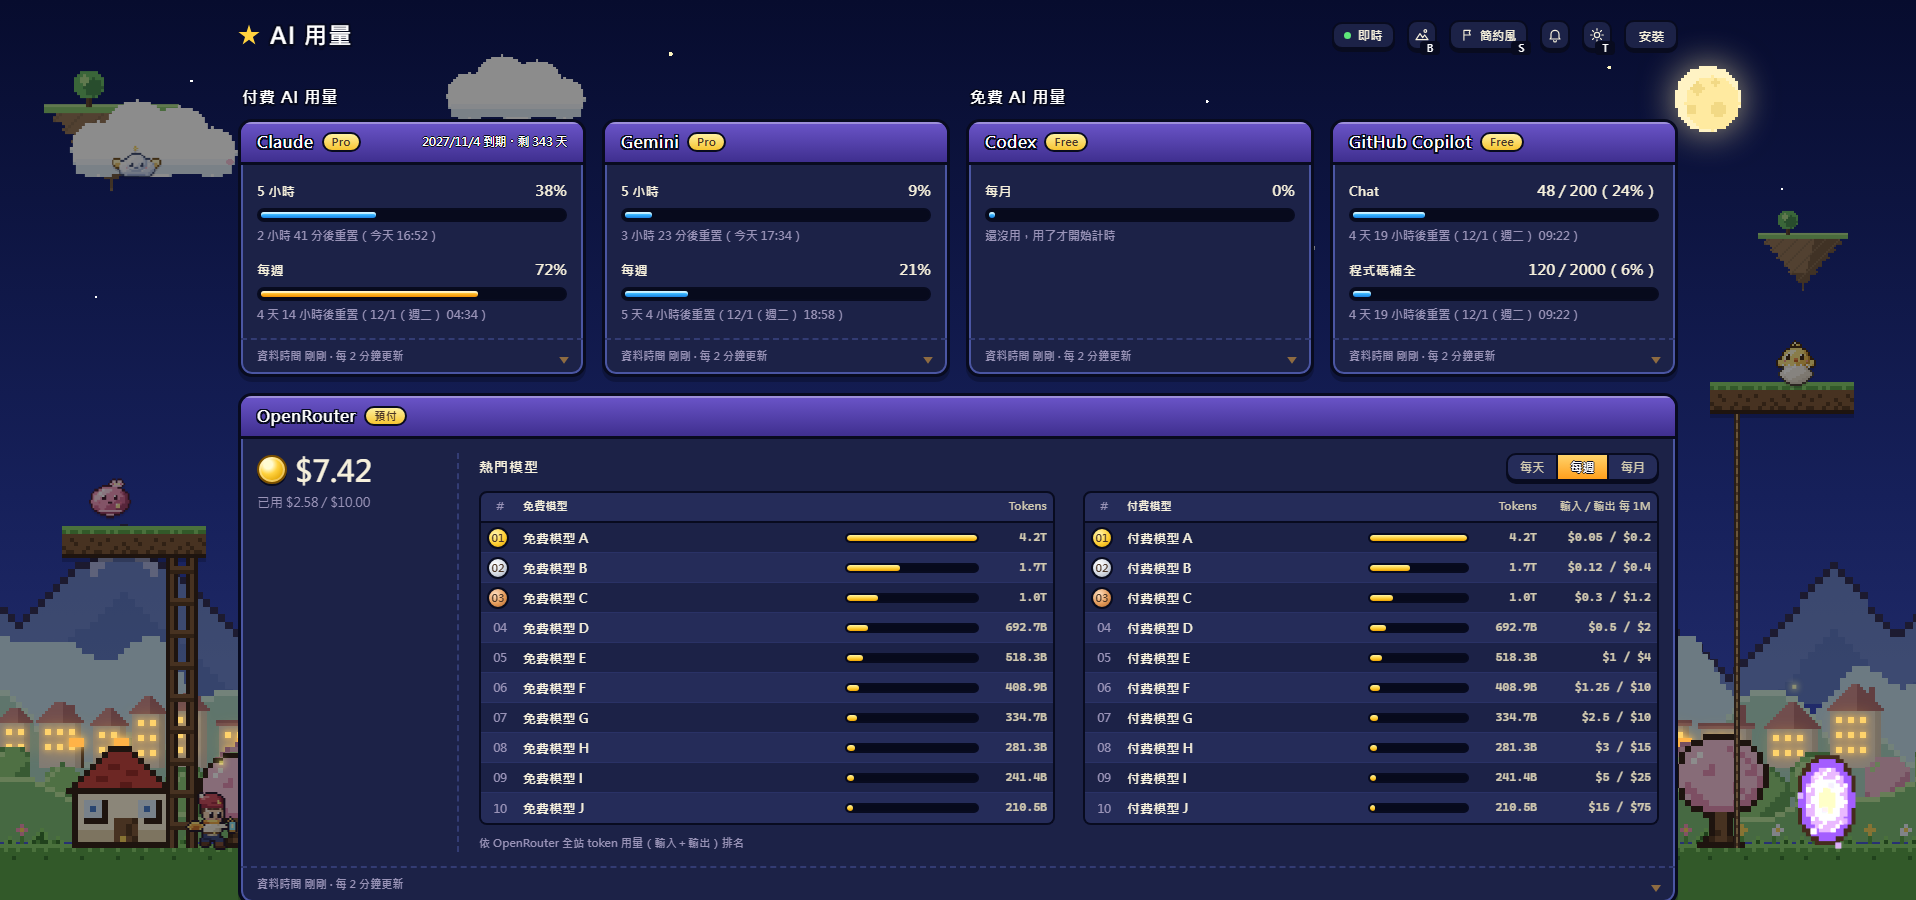
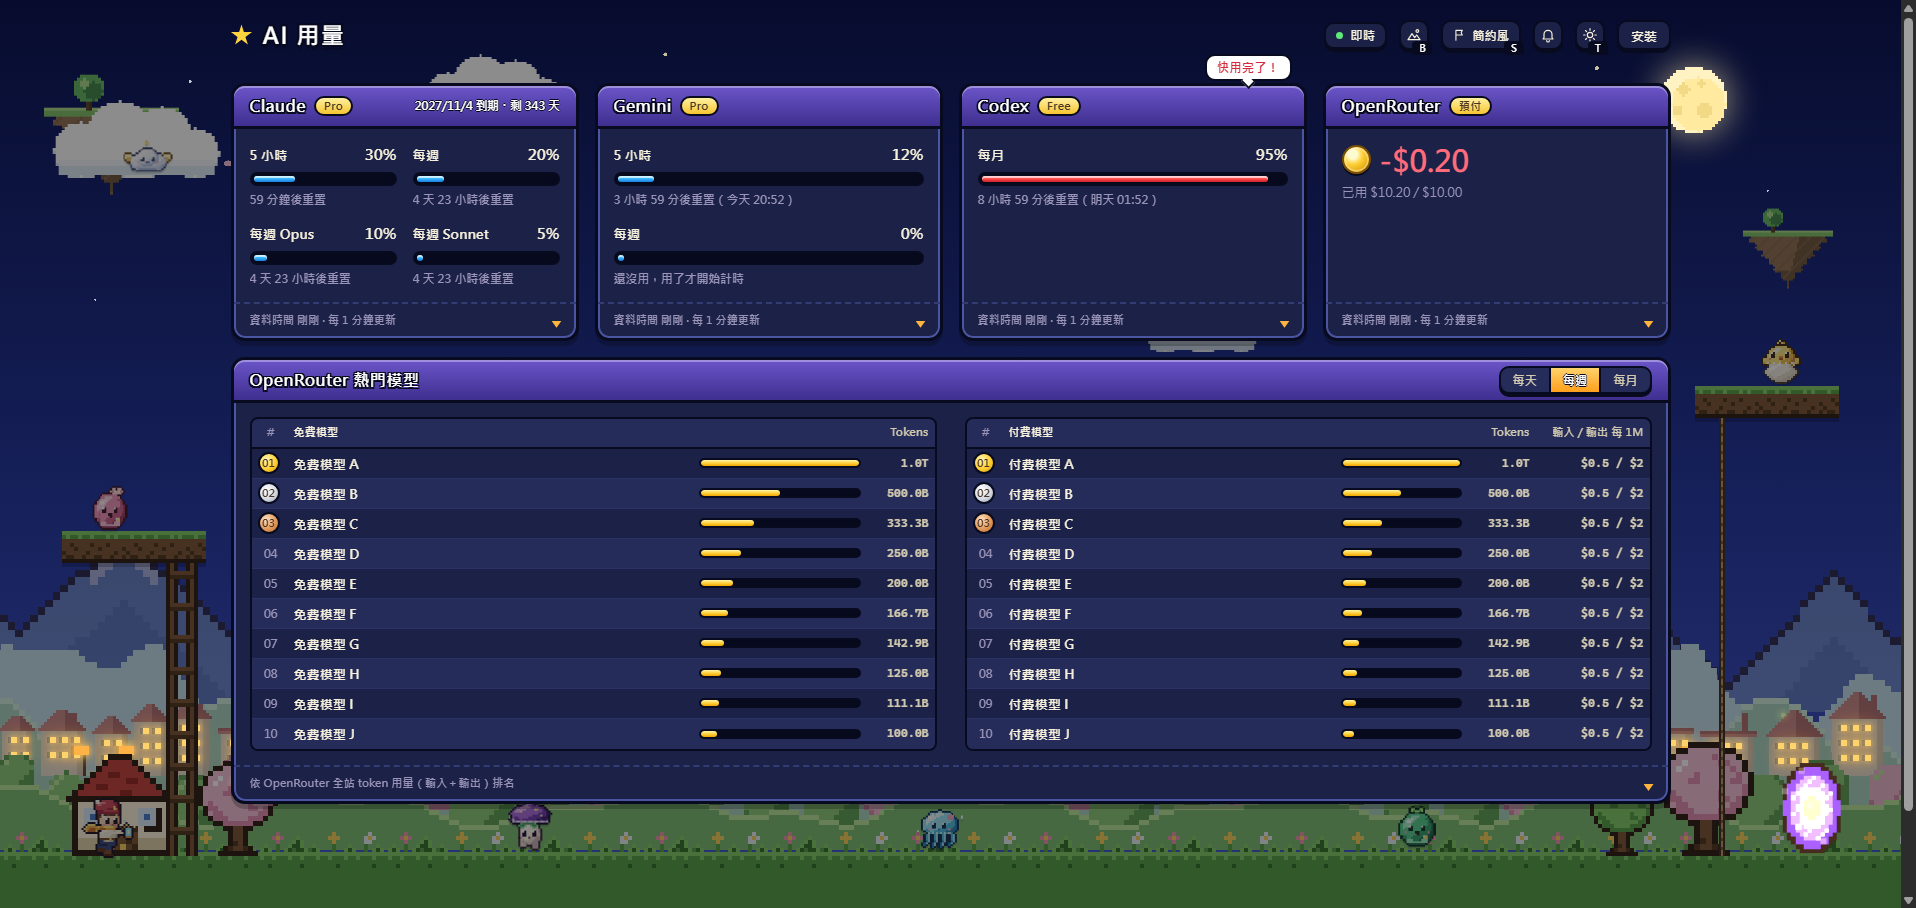
排行只在 OpenRouter 卡片出現後才抓；文件截圖換成目前的畫面
- rankings.js：排行卡片還沒出現（OpenRouter 沒設定）就不叫 /api/rankings；卡片第一次出現時才抓
- smoke test 的 SMOKE_SHOTS 改存成 docs/images 的五張檔名，文件截圖用它重新產生；sw CACHE +1
- package.json 描述拿掉 Copilot

Claude-Session: https://claude.ai/code/session_01YM7sCj2ppoxcYn2ioYraQQ

diff --git a/public/ui/rankings.js b/public/ui/rankings.js
@@ -12,15 +12,16 @@ let failed = false;
 let view = RANK_VIEWS.some(([id]) => id === readStore('rankView')) ? readStore('rankView') : 'week';
 let root = null;
 
+// 排行卡片還沒出現（OpenRouter 沒設定）就不抓，免得白白叫伺服器去抓排行榜
 export function initRankings() {
   setInterval(() => {
-    if (document.visibilityState === 'visible') loadRankings();
+    if (root && document.visibilityState === 'visible') loadRankings();
   }, RANKINGS_POLL_MS);
 }
 
-/** 太久沒更新才重抓（回到前景時呼叫） */
+/** 太久沒更新才重抓（回到前景、排行卡片第一次出現時呼叫） */
 export function refreshRankingsIfStale() {
-  if (Date.now() - loadedAt > RANKINGS_POLL_MS) loadRankings();
+  if (root && Date.now() - loadedAt > RANKINGS_POLL_MS) loadRankings();
 }
 
 async function loadRankings() {
@@ -71,6 +72,7 @@ export function rankingsEl() {
     foot.className = 'card-meta rank-foot';
     root.append(head, cols, foot);
     renderRankings();
+    refreshRankingsIfStale();
   }
   return root;
 }

diff --git a/public/sw.js b/public/sw.js
@@ -1,5 +1,5 @@
 // 快取名稱帶版本號；改了前端檔案就把版本 +1
-const CACHE = 'app-v47';
+const CACHE = 'app-v48';
 const SHELL = [
   '/',
   '/index.html',

diff --git a/docs/TECHNICAL.md b/docs/TECHNICAL.md
@@ -17,7 +17,7 @@
 
 <img src="images/mobile.png" alt="手機版" width="260">
 
-（截圖用的是測試資料。）
+（截圖用的是測試資料；畫面改了就跑 `SMOKE_SHOTS=docs/images npm run test:ui` 重新產生。）
 
 ---
 
